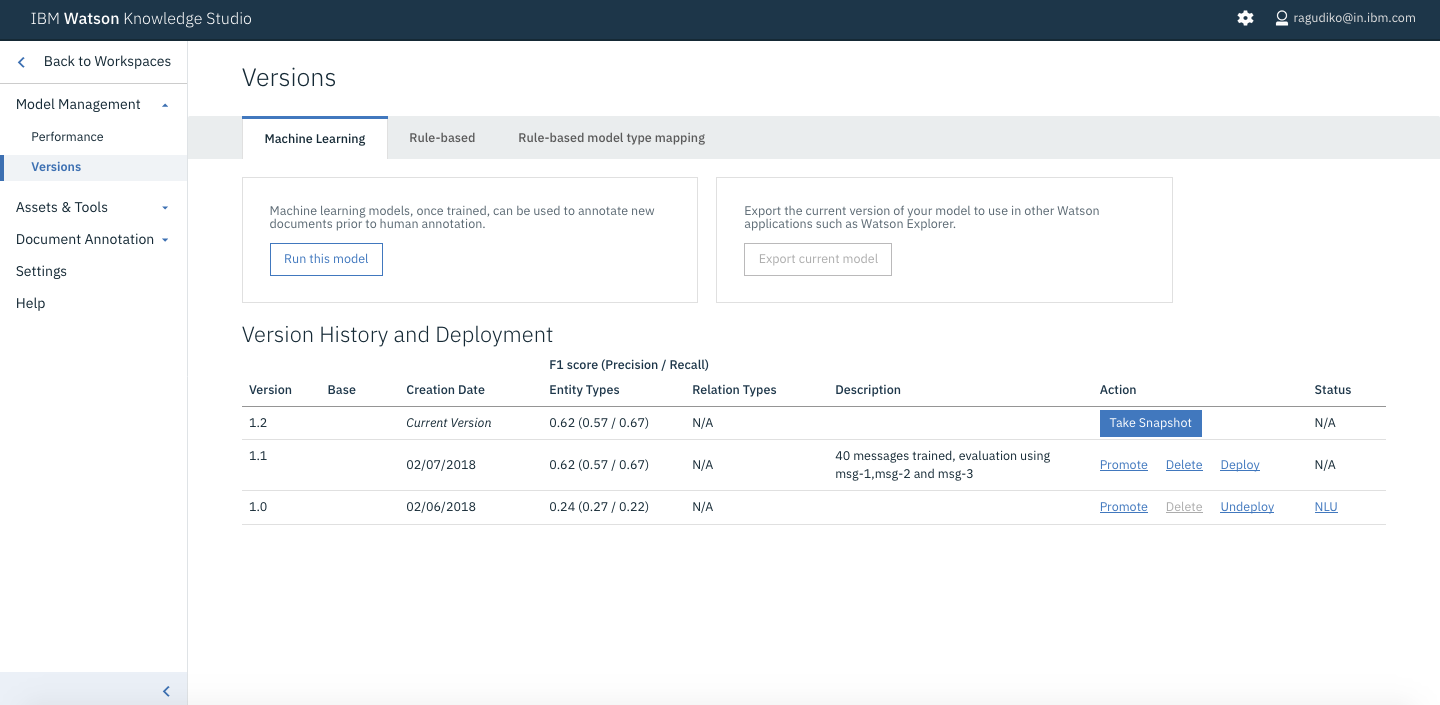
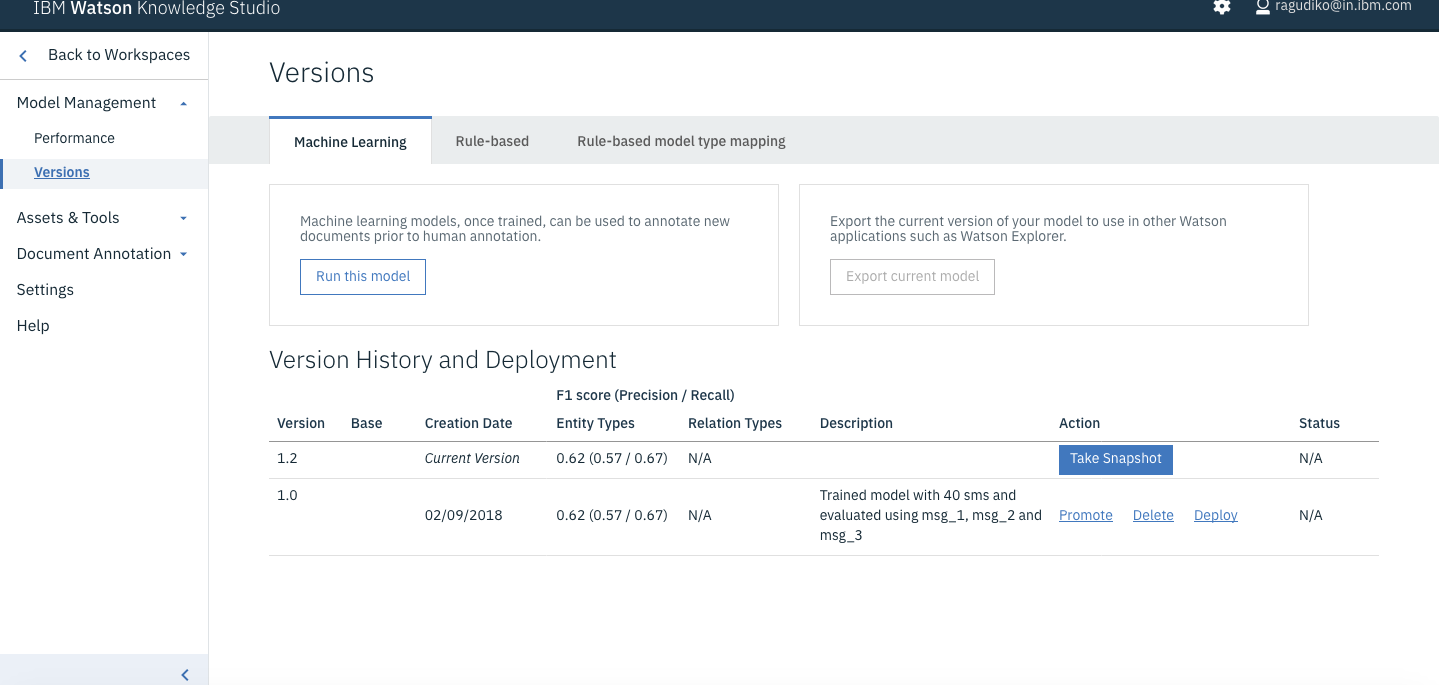
Fix for issue "Steps for training and evaluating"

diff --git a/README.md b/README.md
@@ -112,7 +112,7 @@ From the **Access & Tools -> Documents** panel, press the **Upload Document Sets
 
 ## 6. Create an Annotation Set
 
-From the **Access & Tools -> Documents** panel, press the **Create Annotion Sets** button. Select a valid **Annotator** user, and provide a unique name for **Set name**. 
+From the **Access & Tools -> Documents** panel, press the **Create Annotion Sets** button. Select a valid **Annotator** user, and provide a unique name for **Set name**.
 
 ![](doc/source/images/wks/documents-9-create_annotation_set.png)
 
@@ -120,7 +120,7 @@ From the **Access & Tools -> Documents** panel, press the **Create Annotion Sets
 
 ## 7. Create a Task for Human Annotation
 
-From the **Access & Tools -> Documents** panel, select the **Task** tab and press the **Add Task** button. 
+From the **Access & Tools -> Documents** panel, select the **Task** tab and press the **Add Task** button.
 
 ![](doc/source/images/wks/task-2-create_task.png)
 
@@ -139,10 +139,6 @@ Click on the task card to view the task details panel.
 Click the **Annotate** button to start the **Human Annotation** task.
 
 ![](doc/source/images/wks/task-6-list_of_documents_within_annotation_set_chosen.png)
-
-Click on any of the documents to view the SMS message. Click on the file icon in the top left corner to return to the document list. The example below shows as SMS message that has not been annotated.
-
-![](doc/source/images/wks/task-7-start_annotation-ground_truth_editor.png)
 
 Since we previously imported the corpus documents, the entity and relationship annotations are already completed and can be seen in the following examples. You can annotate mentions (occurrences of words/phrases which can be annotated as an entity) to play around, or you can modify one by annotating mentions with a different entity.
 
@@ -188,21 +184,24 @@ From the **Model Management -> Performance** panel, select the **Train and evalu
 
 ![](doc/source/images/wks/model_training_and_evaluation-1.png)
 
-Select **All** and press the **Train & Evaluate** button. This may take several minutes.
+Select **FirstSmsAnnotationSet** and press the **Train** button. This may take several minutes.
 
 ![](doc/source/images/wks/model_training_and_evaluation-2.png)
 
-![](doc/source/images/wks/model_training_and_evaluation-5-training_and_evaluation_completed.png)
+![](doc/source/images/wks/model_training_and_evaluation-5-training_completed.png)
+
+Select msg_1, msg_2 and msg_3 and press **Evaluate** button. This may take several minutes. In practice you can create separate annotation set for training and evaluation.
+![](model_training_and_evaluation-6-chose_evaluation_set.png)
+![](model_training_and_evaluation-7-evaluation_completed.png)
 
 Once complete, you can view log files of the process by clicking the **View Log** button.
 
-![](doc/source/images/wks/model_training_and_evaluation-6-logs.png)
-
-![](doc/source/images/wks/model_training_and_evaluation-7-multiple_training_and_evaluation_completed.png)
+![](doc/source/images/wks/model_training_and_evaluation-8-logs.png)
 
 ## 9. Deploy the machine learning model to NLU
 
 Now we can deploy our new model to the already created **NLU** service.
+Navigate to Version menu on left and press **Take Snapshot**.
 
 ![](doc/source/images/wks/model_deployment-1.png)
 
@@ -211,6 +210,9 @@ Now we can deploy our new model to the already created **NLU** service.
 ![](doc/source/images/wks/model_deployment-3.png)
 
 ![](doc/source/images/wks/model_deployment-4.png)
+
+Keep note of this model id. Later you can also get this model id by pressing **NLU** link.
+![](doc/source/images/wks/model_deployment-5.png)
 
 # Usage
 
